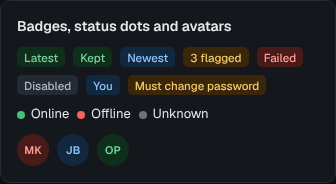
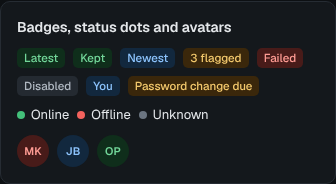
The users list keeps every badge in its column; "Password change due" replaces "Must change password" (#1080)
The user rows were separate grids with a fixed 90 px badge track, narrower than the nowrap
"Must change password" badge, which then painted over the Source column. The columns now belong to
the list and each row is a subgrid of them; badges stack in their cell, so the badge column is at
least 140 px and a row with three badges grows taller instead of squeezing the names. On a phone a
row is name and role badge on line 1, source and last sign-in on line 2. The badge text is one
constant used by the list, the user page and the style guide.

diff --git a/e2e/tests/users-page.spec.ts b/e2e/tests/users-page.spec.ts
@@ -1,4 +1,5 @@
 import { test, expect } from "../support/fixtures";
+import { layoutGuards, guardReport, wrappedUserMeta } from "../support/layout";
 import { App, Devenv, freePort, startApp, startDevenv } from "../support/stack";
 
 // Users page (v0.8.0, design v2 P9): the list of every principal is open to an admin
@@ -77,7 +78,7 @@ test("OIDC admin sees everyone, steps up, manages a local account and ends an SS
   await page.getByRole("button", { name: "Add user" }).click();
   const lena = page.locator(".urow", { hasText: "lena" });
   await expect(lena).toContainText("Local");
-  await expect(lena).toContainText("Must change password");
+  await expect(lena).toContainText("Password change due");
   // Why (v0.10.1): the opened menu must stay usable: its items are on top, not hidden by the row.
   await lena.getByLabel("User actions").click();
   const reset = lena.getByRole("menuitem", { name: "Reset password" });
@@ -153,5 +154,86 @@ for (const width of [768, 1024]) {
       stacks: document.querySelector(".cstacks")!.getBoundingClientRect().width,
     }));
     expect(w.list).toBe(w.stacks);
+  });
+}
+
+// Why (#1080): a badge that sticks out of its cell sits on top of the next one. "Must change
+// password" (about 140 px) covered "Local" in the Source column of a 90 px track, so an admin could
+// not read how that user signs in; on a phone every cell took a line of its own, five lines per
+// user, so the list showed two users per screen. Three badges (role, Deactivated, Password change
+// due) are the worst case a row can hold.
+let badgeUsersSeeded = false;
+function seedBadgeUsers() {
+  if (badgeUsersSeeded) return; // both widths use the same three accounts
+  badgeUsersSeeded = true;
+  app.cli(["user", "add", "--role", "operator", "sam"], "e2e-fake-password-1\n");
+  app.cli(["user", "add", "--role", "operator", "--must-change", "pia"], "e2e-fake-password-1\n");
+  app.cli(["user", "add", "--role", "operator", "--must-change", "otto"], "e2e-fake-password-1\n");
+  app.cli(["user", "disable", "otto"]);
+}
+for (const [width, height] of [
+  [1280, 900],
+  [375, 800],
+] as const) {
+  test(`users list: every badge stays in its column, two lines per user on a phone (${width}px)`, async ({ page }) => {
+    seedBadgeUsers();
+    await loginAs("admin");
+    await page.setViewportSize({ width, height });
+    await page.goto(app.url + "/login/sso?next=%2Fusers");
+    const rows = page.locator(".users-list .urow");
+    await expect(rows.filter({ hasText: "otto" }).locator(".urow-badges .bdg"), "role, Deactivated, password change").toHaveCount(3);
+
+    const m = await page.evaluate(() => {
+      const box = (e: Element) => {
+        const r = e.getBoundingClientRect();
+        return { l: r.left, t: r.top, r: r.right, b: r.bottom };
+      };
+      type B = ReturnType<typeof box>;
+      const hit = (a: B, b: B) => a.l < b.r - 0.5 && b.l < a.r - 0.5 && a.t < b.b - 0.5 && b.t < a.b - 0.5;
+      const out: { who: string; bad: string[]; sourceX: number; metaTops: number[]; whoBox: B; roleMid: number; badgeCount: number }[] = [];
+      for (const row of document.querySelectorAll(".users-list .urow")) {
+        const who = row.querySelector(".urow-who")!;
+        const cell = row.querySelector(".urow-badges")!;
+        const metas = [...row.querySelectorAll(".urow-meta")];
+        const others = [who, ...metas, ...(row.querySelector(".rowmenu, a.btn") ? [row.querySelector(".rowmenu, a.btn")!] : [])];
+        const bad: string[] = [];
+        const cb = box(cell);
+        for (const bdg of cell.querySelectorAll(".bdg")) {
+          const bb = box(bdg);
+          const label = bdg.textContent!.trim();
+          if (bb.l < cb.l - 0.5 || bb.r > cb.r + 0.5) bad.push(`${label} sticks out of its cell by ${Math.round(Math.max(cb.l - bb.l, bb.r - cb.r))} px`);
+          for (const o of others) if (hit(bb, box(o))) bad.push(`${label} covers ${o.className || o.tagName}`);
+        }
+        const first = cell.querySelector(".bdg")!;
+        const fb = box(first);
+        out.push({
+          who: row.querySelector(".urow-name > span")!.textContent!.trim(),
+          bad,
+          sourceX: box(metas[0]).l,
+          metaTops: metas.map((e) => box(e).t),
+          whoBox: box(who),
+          roleMid: (fb.t + fb.b) / 2,
+          badgeCount: cell.querySelectorAll(".bdg").length,
+        });
+      }
+      return out;
+    });
+    expect(m.length, "the three accounts and the admins are listed").toBeGreaterThanOrEqual(4);
+    expect(m.flatMap((r) => r.bad.map((b) => `${r.who}: ${b}`)), "no badge leaves its cell or covers another cell").toEqual([]);
+    if (width >= 1000) {
+      expect(new Set(m.map((r) => Math.round(r.sourceX))).size, "the Source column starts at one x in every row").toBe(1);
+    } else {
+      const sam = m.find((r) => r.who === "sam")!;
+      expect(sam.badgeCount).toBe(1);
+      expect(sam.roleMid, "line 1: the role badge sits beside the name").toBeGreaterThan(sam.whoBox.t);
+      expect(sam.roleMid, "line 1: the role badge sits beside the name").toBeLessThan(sam.whoBox.b);
+      for (const r of m) {
+        expect(r.metaTops[0], `${r.who}: line 2 holds the source`).toBeGreaterThanOrEqual(r.whoBox.b - 0.5);
+        expect(r.metaTops[1], `${r.who}: the last sign-in shares the source's line`).toBeCloseTo(r.metaTops[0], 0);
+      }
+      expect(await wrappedUserMeta(page), "line 2 is one line: source and last sign-in each fit beside the other").toEqual([]);
+    }
+    const found = await layoutGuards(page, ["a", "b", "o", "w"]);
+    expect(guardReport(`users list ${width}px`, found)).toBe("");
   });
 }

diff --git a/internal/web/static/app.css b/internal/web/static/app.css
@@ -6368,16 +6368,28 @@ body.page-auth main {
   padding: var(--sp-14) var(--sp-16);
   gap: var(--sp-10);
 }
-/* one line per user in the wide stack (who, role, source, last seen, menu) */
+/* one line per user in the wide stack (who, role, source, last seen, menu). The columns belong to the
+   list and each row is a subgrid of them (#1080), so every row's source and last sign-in start at one x.
+   The badges of a row stack in their cell (.urow-badges), so the badge column is as wide as the widest
+   single badge, at least 140px: a row with three badges grows taller, it never widens the column and
+   squeezes the names. A badge never leaves its cell. */
 @media (min-width: 45rem) {
+  .cstack .users-list {
+    display: grid;
+    grid-template-columns:
+      minmax(0, 1.5fr) minmax(140px, max-content) minmax(0, 100px)
+      minmax(0, 1.6fr) auto;
+    column-gap: var(--sp-12);
+  }
   .cstack .users-list .urow {
     display: grid;
-    grid-template-columns: minmax(0, 1.5fr) 90px minmax(0, 100px) minmax(
-        0,
-        1.6fr
-      ) auto;
+    grid-column: 1 / -1;
+    grid-template-columns: subgrid;
     align-items: center;
-    column-gap: var(--sp-12);
+  }
+  .cstack .users-list .urow-badges {
+    flex-direction: column;
+    align-items: flex-start;
   }
 }
 /* two half columns (tablet): the list takes the full row, a half column squeezes the names */
@@ -6433,6 +6445,7 @@ body.page-auth main {
 }
 .urow-badges {
   flex: 1 1 190px;
+  min-width: 0;
   display: flex;
   flex-wrap: wrap;
   align-items: center;
@@ -6453,6 +6466,38 @@ body.page-auth main {
 .urow .uavatar {
   background: var(--color-surface-3);
   color: var(--color-text-2);
+}
+/* phone (#1080): name, role badge and menu (or Details link) on line 1, source and last sign-in on line 2.
+   Badges stack in their cell (as in the wide list), so a row with three of them grows taller instead of
+   squeezing the name. */
+@media (max-width: 44.99rem) {
+  .users-list .urow {
+    display: grid;
+    grid-template-columns: auto minmax(0, 1fr) auto auto;
+    align-items: center;
+    column-gap: var(--sp-8); /* the widest line 1 (Password change due beside Details) just fits at 375px */
+  }
+  .users-list .urow-who {
+    grid-area: 1 / 1 / 2 / 3;
+  }
+  .users-list .urow-badges {
+    grid-area: 1 / 3 / 2 / 4;
+    flex-direction: column;
+    align-items: flex-end;
+  }
+  .users-list .urow-meta {
+    grid-area: 2 / 1 / 3 / 2;
+    align-self: start;
+  }
+  /* The last sign-in runs under the menu or Details link and the source starts at the avatar's edge (no
+     indent under the name), so 'SSO · Single sign-on' beside 'Today 06:29 AM · No sessions' fit one line at 375px. */
+  .users-list .urow-meta + .urow-meta {
+    grid-area: 2 / 2 / 3 / 5;
+  }
+  .users-list .urow > .rowmenu,
+  .users-list .urow > a.btn {
+    grid-area: 1 / 4 / 2 / 5; /* line 1 only */
+  }
 }
 /* add-user form: two columns of fields, the password choice across, the buttons at the foot */
 .useradd-sum {

diff --git a/e2e/tests/mobile-density.spec.ts b/e2e/tests/mobile-density.spec.ts
@@ -1,6 +1,6 @@
 import { deviceBox } from "../support/devicelist";
 import { test, expect } from "../support/fixtures";
-import { expectNoOverflow, overflowProblem, smallTargets } from "../support/layout";
+import { expectNoOverflow, overflowProblem, smallTargets, wrappedUserMeta } from "../support/layout";
 import { realisticDevenvArgs, realisticPolicyRules, seedAuditTail, seedRealisticData } from "../support/seed";
 import { App, Devenv, freePort, startApp, startDevenv, writeTasmoAdminDir } from "../support/stack";
 
@@ -95,6 +95,16 @@ test("phone: no main view scrolls sideways", async ({ page }) => {
     if (problem) overflowing.push(problem);
   }
   expect(overflowing, "pages wider than the visible width").toEqual([]);
+});
+
+// #1080: a view-only admin sees a Details link where the others have a menu; it must not squeeze the last
+// sign-in of every row onto a second line (line 2 is the source and the last sign-in, one line each).
+test("phone: the users list shows source and last sign-in on one line per user", async ({ page }) => {
+  await page.setExtraHTTPHeaders(admin);
+  await page.setViewportSize({ width: 375, height: SCREEN });
+  await page.goto(app.url + "/users");
+  await expect(page.locator(".users-list .urow a.btn").first()).toBeVisible();
+  expect(await wrappedUserMeta(page)).toEqual([]);
 });
 
 // UX review #22 and #36 (chips that wrapped on a phone), resolved by design v2: the settings sections (P8)

diff --git a/e2e/support/layout.ts b/e2e/support/layout.ts
@@ -863,6 +863,27 @@ export async function cardStackGaps(page: Page, maxGap = 17): Promise<string[]> 
   }, maxGap);
 }
 
+/**
+ * wrappedUserMeta (#1080) lists every source / last sign-in cell of the users list that needs more than one
+ * line. On a phone a user row is name and role on line 1, then source and last sign-in on line 2; a last
+ * sign-in that wraps (a view-only admin's Details link used to squeeze it) makes the row three lines tall.
+ */
+export async function wrappedUserMeta(page: Page): Promise<string[]> {
+  return page.evaluate(() => {
+    const out: string[] = [];
+    for (const row of document.querySelectorAll(".users-list .urow")) {
+      const who = row.querySelector(".urow-name > span")?.textContent?.trim() ?? "?";
+      for (const m of row.querySelectorAll<HTMLElement>(".urow-meta")) {
+        const cs = getComputedStyle(m);
+        const line = parseFloat(cs.lineHeight) || parseFloat(cs.fontSize) * 1.3;
+        const h = m.getBoundingClientRect().height;
+        if (h > line * 1.5) out.push(`${who}: "${m.textContent!.trim().replace(/\s+/g, " ")}" is ${Math.round(h)}px tall (one line is ${Math.round(line)}px)`);
+      }
+    }
+    return out;
+  });
+}
+
 /** The bubble the shared tooltip shows for an element, and which other rows' text it covers. */
 export interface TipReport {
   tip: { text: string; top: number; bottom: number; left: number; right: number } | null;

diff --git a/internal/web/usersaudit_test.go b/internal/web/usersaudit_test.go
@@ -67,7 +67,7 @@ func TestUsersListShowsStateAsBadges(t *testing.T) {
 	d := usersFixture()
 	d.Users = append(d.Users, auth.UserRow{Subject: "local:old", Name: "old", Method: auth.MethodLocal, Role: "operator", Disabled: true, Guards: allowed})
 	body := renderUsersPage(t, d)
-	for _, want := range []string{`<span class="bdg t-neutral">You</span>`, `<span class="bdg t-warn">Must change password</span>`, `<span class="bdg t-neutral">Deactivated</span>`,
+	for _, want := range []string{`<span class="bdg t-neutral">You</span>`, `<span class="bdg t-warn">Password change due</span>`, `<span class="bdg t-neutral">Deactivated</span>`,
 		`<span class="bdg t-accent">Admin</span>`, "Never signed in · No sessions", ">Add local user</a>"} {
 		if !strings.Contains(body, want) {
 			t.Errorf("list lacks %q", want)
@@ -400,6 +400,31 @@ func TestOneTimePasswordIsShownOnceAndNotCached(t *testing.T) {
 	for _, want := range []string{"Password reset for lena", `data-copy-from="#otp-value"`, `<a class="btn btn-primary" href="/tf/users/lena">Done</a>`, "can’t be shown again"} {
 		if !strings.Contains(body, want) {
 			t.Errorf("OTP page lacks %q", want)
+		}
+	}
+}
+
+// Why (#1080): one state has one name on every page. "Must change password" read as an order the
+// admin had to carry out and was about 140 px wide, more than the list's badge column; the pending
+// password is now "Password change due" on the list, on the user's page and in the style guide, and
+// the old wording is gone everywhere, so no page says something the others do not. The literal is
+// used on purpose: a test that used the constant could not tell a changed text from the same one.
+func TestPasswordChangeDueHasOneNameOnEveryPage(t *testing.T) {
+	const due, old = "Password change due", "Must change password"
+	_, guide := setup(t).do(t, "GET", "/styleguide", "admin", nil)
+	pages := map[string]string{
+		"users list": renderUsersPage(t, usersFixture()),
+		"user page": userDetailBody(t, auth.UserDetailData{BasePath: "/tf", CSRFToken: "tok", Self: "local:admin",
+			User:   auth.UserRow{Subject: "local:ops", Name: "ops", Method: auth.MethodLocal, Role: "operator", MustChangePassword: true},
+			Guards: allowed}),
+		"style guide": guide,
+	}
+	for name, body := range pages {
+		if !strings.Contains(body, `<span class="bdg t-warn">`+due+`</span>`) {
+			t.Errorf("%s lacks the %q badge", name, due)
+		}
+		if strings.Contains(body, old) {
+			t.Errorf("%s still says %q", name, old)
 		}
 	}
 }

diff --git a/internal/web/pages.go b/internal/web/pages.go
@@ -259,6 +259,10 @@ func sessionsText(n int) string {
 // stepUpDialogID is the id of the users pages' "Confirm it's you" dialog.
 const stepUpDialogID = "users-stepup"
 
+// passwordChangeDue is the badge of an account that has to choose its own password at the next
+// sign-in: one name on the users list, the user's page and the style guide.
+const passwordChangeDue = "Password change due"
+
 // stepUpOf is the step-up dialog of the users pages while changes are locked; nil when the
 // viewer may change users now, or can never confirm (header principals, view only).
 func stepUpOf(d auth.UsersPageData, now time.Time, what string) *ui.StepUpData {

diff --git a/internal/web/styleguide_templ.go b/internal/web/styleguide_templ.go
@@ -356,7 +356,7 @@ func styleguidePage(v sgView) templ.Component {
 			if templ_7745c5c3_Err != nil {
 				return templ_7745c5c3_Err
 			}
-			templ_7745c5c3_Err = ui.Badge(ui.ToneWarn, "Must change password").Render(ctx, templ_7745c5c3_Buffer)
+			templ_7745c5c3_Err = ui.Badge(ui.ToneWarn, passwordChangeDue).Render(ctx, templ_7745c5c3_Buffer)
 			if templ_7745c5c3_Err != nil {
 				return templ_7745c5c3_Err
 			}

diff --git a/internal/web/accountpages_templ.go b/internal/web/accountpages_templ.go
@@ -1222,7 +1222,7 @@ func usersPage(v usersView) templ.Component {
 						}
 					}
 					if u.MustChange {
-						templ_7745c5c3_Err = ui.Badge(ui.ToneWarn, "Must change password").Render(ctx, templ_7745c5c3_Buffer)
+						templ_7745c5c3_Err = ui.Badge(ui.ToneWarn, passwordChangeDue).Render(ctx, templ_7745c5c3_Buffer)
 						if templ_7745c5c3_Err != nil {
 							return templ_7745c5c3_Err
 						}

diff --git a/internal/web/userdetail_templ.go b/internal/web/userdetail_templ.go
@@ -79,7 +79,7 @@ func userDetailPage(v userDetailView) templ.Component {
 			}
 		}
 		if v.D.User.MustChangePassword {
-			templ_7745c5c3_Err = ui.Badge(ui.ToneWarn, "Must change password").Render(ctx, templ_7745c5c3_Buffer)
+			templ_7745c5c3_Err = ui.Badge(ui.ToneWarn, passwordChangeDue).Render(ctx, templ_7745c5c3_Buffer)
 			if templ_7745c5c3_Err != nil {
 				return templ_7745c5c3_Err
 			}

diff --git a/docs/spec/design-system.md b/docs/spec/design-system.md
@@ -222,6 +222,9 @@ Also: [desktop, dark](../design/styleguide/buttons-desktop-dark.png) · [phone, 
 
 Badges are 20 px tinted labels (`500 11.5px`, radius 5) for states, results and counters. A status is a dot with its word (Online / Offline / Unknown), never the colour alone. Tones: ok, warn, danger, neutral, accent (`.t-*` classes); an unknown tone renders neutral. The avatar shows the initials; its colour follows the username, so a user keeps one colour everywhere.
 
+A badge never leaves its cell: in a list, the badges of a row stack in their own cell, and the badge column is
+at least as wide as the longest badge (the users list: 140 px, every row a subgrid of one column set).
+
 Badge labels are sentence case ("Update", "Failed"). A device's connection status is a badge with the dot
 before the word, `ui.StatusBadge`, wherever it is shown (device list, device header, dashboard attention
 list); the bare `ui.StatusDot` marks a tone where no status word is needed (stat tiles). `ui.StatusBadge`

diff --git a/changes/unreleased/1080-users-list-badges.md b/changes/unreleased/1080-users-list-badges.md
@@ -1,0 +1,4 @@
+---
+section: Fixed
+---
+The users list keeps every badge in its column; "Must change password" is now "Password change due" (#1080)
